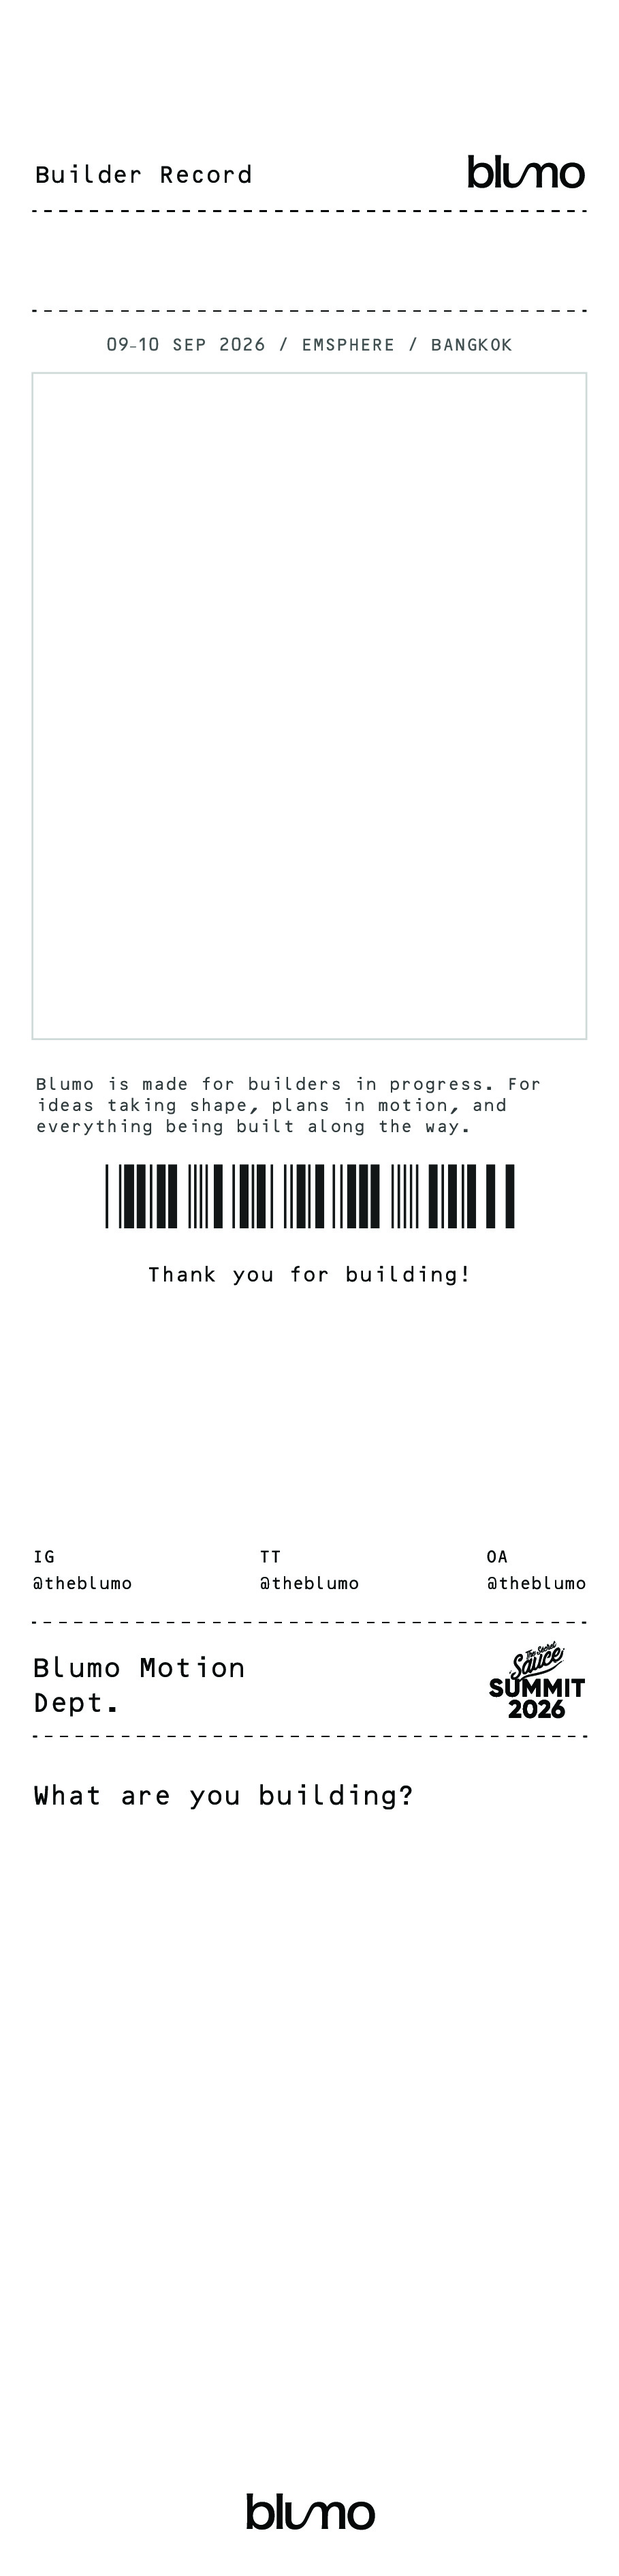
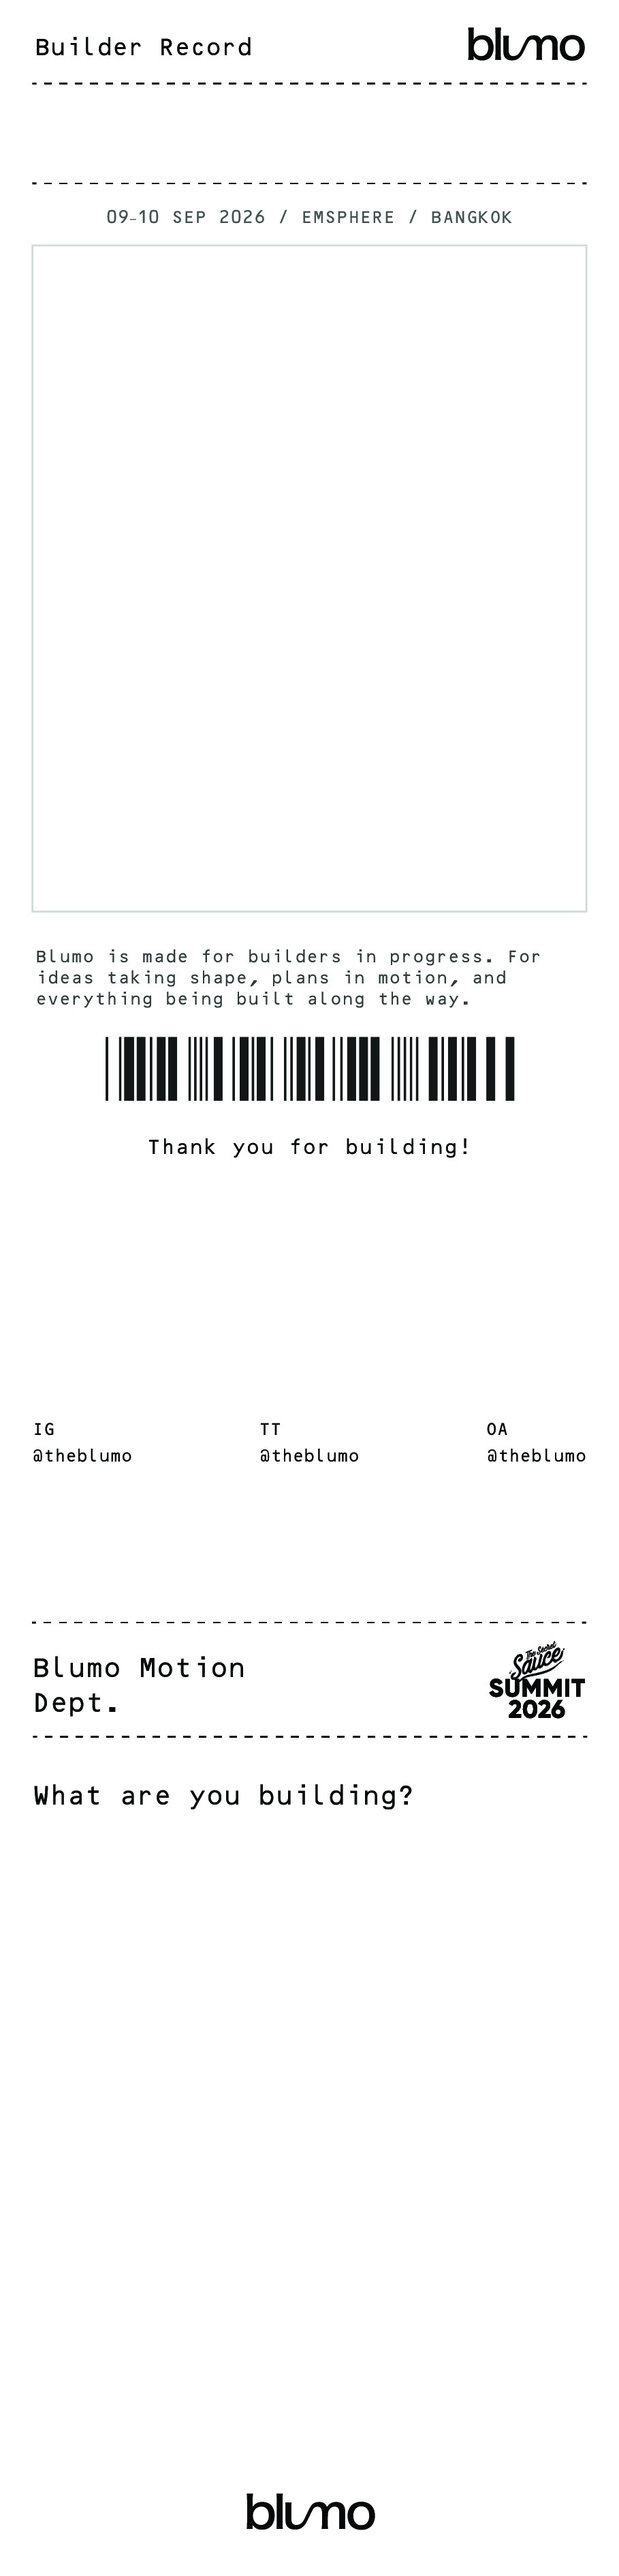
Release The Blumo v1.3 with print slot alignment matching preview.

diff --git a/frontend/js/composite.js b/frontend/js/composite.js
@@ -856,10 +856,9 @@ function cloneReceiptCanvas(targetCanvas, sourceCanvas) {
   return true;
 }
 
-/** TheBlumo print — preview slots/guest/QR on full frame-select artwork (no height crop) */
+/** TheBlumo print — same preview slot % on full frame-select artwork (no height crop) */
 async function drawTheBlumoPrintComposite(canvas, frameConfig, photos, options = {}) {
   const { thermal = true, qrCodeUrl = null } = options;
-  const layoutRef = await getTheBlumoLayoutReferenceSize(frameConfig);
   const frameSrc = resolveTheBlumoFrameSelectPath(frameConfig);
   if (!frameSrc) {
     throw new Error("Missing TheBlumo frame-select artwork");
@@ -875,18 +874,17 @@ async function drawTheBlumoPrintComposite(canvas, frameConfig, photos, options =
   const ctx = canvas.getContext("2d");
   ctx.drawImage(frameImg, 0, 0);
 
+  // Use full print canvas for slot % — same as preview on mock (no mock-height layoutReference).
   await drawTheBlumoGuestName(ctx, frameW, frameH, 0, {
     eraseBackground: false,
     previewMode: true,
-    layoutReference: layoutRef,
   });
   await drawPhotosInSlots(ctx, frameConfig, photos, frameW, frameH, drawPhotoFn, {
     previewMode: true,
-    layoutReference: layoutRef,
   });
 
   if (PREVIEW_QR_ON_RECEIPT_ENABLED && qrCodeUrl) {
-    await drawTheBlumoPreviewQR(ctx, frameConfig.id, qrCodeUrl, frameW, frameH, layoutRef);
+    await drawTheBlumoPreviewQR(ctx, frameConfig.id, qrCodeUrl, frameW, frameH);
   }
 
   console.info(

diff --git a/frontend/index.html b/frontend/index.html
@@ -402,7 +402,7 @@
     <script src="js/escpos.js"></script>
     <script src="js/thermer.js"></script>
     <script src="js/native-print.js?v=booth190"></script>
-    <script src="js/composite.js?v=booth214"></script>
+    <script src="js/composite.js?v=booth215"></script>
     <script src="js/camera.js?v=booth207"></script>
     <script src="js/app.js?v=booth190"></script>
   </body>
